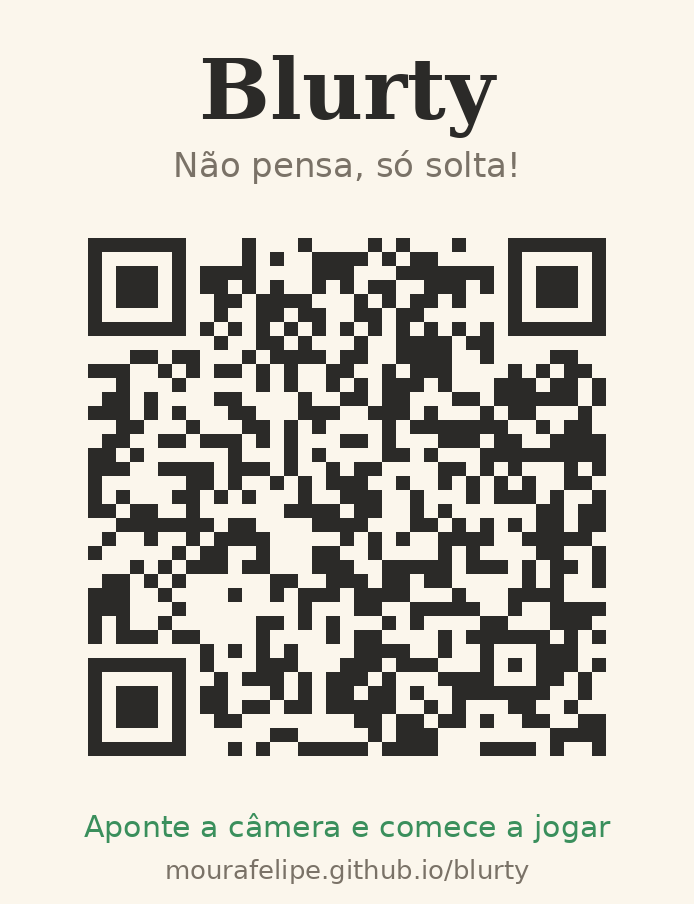
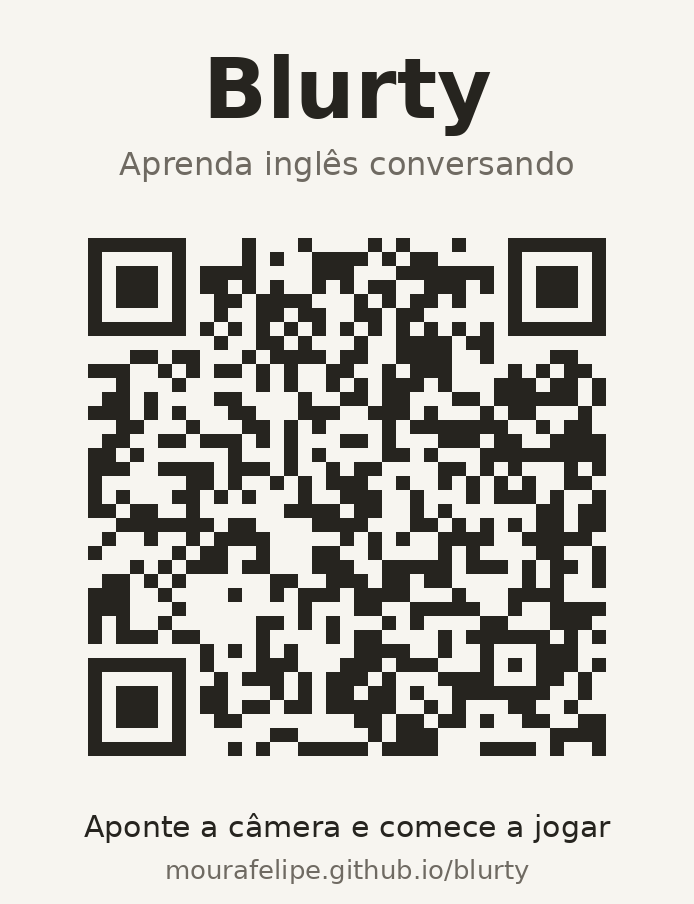
Corrige 3 erros: etiqueta START, nota mínima da fase e QR code
- START no mapa não sobrepõe mais o nome da fase anterior
- Fase só é concluída com 2 de 3 acertos; senão aparece 'Quase lá!' com 'Tentar de novo'
- QR code com o texto novo (mesmo link)

Claude-Session: https://claude.ai/code/session_01447eyMPBRjnX6g9uHsHngW

Changed region(s): [[0.1816, 0.0619, 0.817, 0.2168], [0.121, 0.8982, 0.8775, 0.9292]]

diff --git a/index.html b/index.html
@@ -95,7 +95,7 @@
   .node .lb{font-weight:800;font-size:14px;text-align:center;max-width:180px;line-height:1.15}
   .node .lb small{display:block;font-weight:700;color:var(--muted);font-size:12px}
   .node .st{font-size:13px;color:var(--accent);letter-spacing:1px;height:15px}
-  .node .go{position:absolute;top:-28px;background:var(--card);border:2px solid var(--line);border-radius:10px;padding:2px 10px;font-weight:900;font-size:12px;color:var(--accent);letter-spacing:.08em;animation:bob 1.4s ease-in-out infinite}
+  .node .go{display:block;margin-bottom:4px;background:var(--card);border:2px solid var(--line);border-radius:10px;padding:2px 10px;font-weight:900;font-size:12px;color:var(--accent);letter-spacing:.08em;animation:bob 1.4s ease-in-out infinite}
   .node.cur .c{outline:4px solid var(--soft);outline-offset:4px}
   .soon{margin:12px 16px;display:flex;gap:14px;align-items:center;background:transparent;border:2px dashed var(--line2);border-radius:16px;padding:12px 14px;color:var(--muted)}
   .soon .e{font-size:24px;filter:grayscale(1);opacity:.6}
@@ -778,6 +778,7 @@ const UPCOMING = [
 /* ================== estrutura do curso ================== */
 const MAIN = [BLOCK1];                        // novos blocos entram aqui, em ordem de dificuldade
 const PEP_EVERY = 5;                          // mascote incentiva a cada 5 exercícios
+const PASS = 2/3;                             // acertos mínimos para concluir a fase (2 de 3)
 const PHASES = {};
 MAIN.forEach(b=>b.phases.forEach((p,i)=>PHASES[p.id]={p, b, i}));
 const QUESTIONS = {};
@@ -839,7 +840,7 @@ const overallPct = ()=>Math.round(MAIN_PHASES.filter(p=>done(p.id)).length/MAIN_
 const accuracy = ()=>S.stats.answered?Math.round(S.stats.correct/S.stats.answered*100):0;
 
 const ACH = [
-  {id:"first",  e:"🌱", t:"Primeiro passo",     d:"Conclua sua primeira fase",    ok:()=>Object.keys(S.phases).length>=1},
+  {id:"first",  e:"🌱", t:"Primeiro passo",     d:"Conclua sua primeira fase",    ok:()=>MAIN_PHASES.some(p=>done(p.id))},
   {id:"perfect",e:"🎯", t:"Sem erros",           d:"Conclua uma fase sem errar",   ok:()=>Object.values(S.phases).some(x=>x.stars===3)},
   {id:"b1",     e:"👋", t:"First Conversations", d:"Conclua o Bloco 1",           ok:()=>BLOCK1.phases.every(p=>done(p.id))},
   {id:"ten",    e:"✍", t:"10 exercícios",       d:"Responda 10 exercícios",       ok:()=>S.stats.answered>=10},
@@ -1123,6 +1124,7 @@ function pepTalk(){
 function addXP(n){ S.xp+=n; const t=dayStr(); S.days[t]=(S.days[t]||0)+n; }
 
 function finishPhase(){
+  if (L.ok < Math.ceil(L.total*PASS)) return retryPhase();
   const {p,b}=L, first=!done(p.id);
   const stars=L.mistakes===0?3:L.mistakes===1?2:1, acc=Math.round(L.ok/L.total*100);
   const lines=[["Respostas certas",L.xp]];
@@ -1158,6 +1160,26 @@ function finishPhase(){
   const nb=document.getElementById("nx"); if(nb) nb.onclick=()=>nx.type==="review"?startReview():startPhase(nx.p.id);
   document.getElementById("map").onclick=quit; window.scrollTo(0,0);
 }
+function retryPhase(){
+  const {p}=L, need=Math.ceil(L.total*PASS), acc=Math.round(L.ok/L.total*100);
+  const bonus=touchDay()?5*Math.min(S.streak,7):0, total=L.xp+bonus; addXP(total);
+  const prev=S.phases[p.id]||{stars:0,best:0,plays:0};
+  S.phases[p.id]={stars:prev.stars, best:Math.max(prev.best,acc), plays:prev.plays+1};
+  S.history.push({d:dayStr(), t:p.title, c:L.ok, n:L.total, xp:total}); S.history=S.history.slice(-40);
+  checkAch(); persist();
+  const l=mascotLine(M(),"oops");
+  app.innerHTML=`<div class="screen"><div class="end">${mbox("encourage")}
+      <h2>Quase lá!</h2><div class="sub">${esc(p.title)} · ${esc(p.pt)}</div>
+      <div class="bubble">${esc(l[0])}<small>${esc(l[1])}</small></div>
+      <div class="cards3" style="margin-top:14px"><div class="card"><b>✔ ${L.ok}/${L.total}</b><span>Acertos</span></div><div class="card"><b>🎯 ${need}</b><span>Para passar</span></div><div class="card"><b>⚡ ${total}</b><span>XP</span></div></div>
+      <div class="done-goal"><small>🎯 Objetivo da fase</small>${esc(p.goal)}</div>
+      <p class="empty" style="margin-top:12px">Você precisa acertar ${need} de ${L.total} para concluir a fase. Releia o cartão "Aprenda" e tente de novo: os exercícios que você errou também foram para a Revisão.</p>
+    </div><div class="foot"><button class="btn" id="again" style="margin-bottom:10px">Tentar de novo</button><button class="btn ghost" id="map">Ver mapa</button></div></div>`;
+  sfx.tap();
+  document.getElementById("again").onclick=()=>startPhase(p.id);
+  document.getElementById("map").onclick=quit; window.scrollTo(0,0);
+}
+
 function finishReview(){
   const bonus=touchDay()?5*Math.min(S.streak,7):0, total=L.xp+bonus; addXP(total);
   S.history.push({d:dayStr(), t:"Revisão", c:L.ok, n:L.total, xp:total}); S.history=S.history.slice(-40);

diff --git a/src/app.html b/src/app.html
@@ -95,7 +95,7 @@
   .node .lb{font-weight:800;font-size:14px;text-align:center;max-width:180px;line-height:1.15}
   .node .lb small{display:block;font-weight:700;color:var(--muted);font-size:12px}
   .node .st{font-size:13px;color:var(--accent);letter-spacing:1px;height:15px}
-  .node .go{position:absolute;top:-28px;background:var(--card);border:2px solid var(--line);border-radius:10px;padding:2px 10px;font-weight:900;font-size:12px;color:var(--accent);letter-spacing:.08em;animation:bob 1.4s ease-in-out infinite}
+  .node .go{display:block;margin-bottom:4px;background:var(--card);border:2px solid var(--line);border-radius:10px;padding:2px 10px;font-weight:900;font-size:12px;color:var(--accent);letter-spacing:.08em;animation:bob 1.4s ease-in-out infinite}
   .node.cur .c{outline:4px solid var(--soft);outline-offset:4px}
   .soon{margin:12px 16px;display:flex;gap:14px;align-items:center;background:transparent;border:2px dashed var(--line2);border-radius:16px;padding:12px 14px;color:var(--muted)}
   .soon .e{font-size:24px;filter:grayscale(1);opacity:.6}
@@ -268,6 +268,7 @@
 /* ================== estrutura do curso ================== */
 const MAIN = [BLOCK1];                        // novos blocos entram aqui, em ordem de dificuldade
 const PEP_EVERY = 5;                          // mascote incentiva a cada 5 exercícios
+const PASS = 2/3;                             // acertos mínimos para concluir a fase (2 de 3)
 const PHASES = {};
 MAIN.forEach(b=>b.phases.forEach((p,i)=>PHASES[p.id]={p, b, i}));
 const QUESTIONS = {};
@@ -329,7 +330,7 @@ const overallPct = ()=>Math.round(MAIN_PHASES.filter(p=>done(p.id)).length/MAIN_
 const accuracy = ()=>S.stats.answered?Math.round(S.stats.correct/S.stats.answered*100):0;
 
 const ACH = [
-  {id:"first",  e:"🌱", t:"Primeiro passo",     d:"Conclua sua primeira fase",    ok:()=>Object.keys(S.phases).length>=1},
+  {id:"first",  e:"🌱", t:"Primeiro passo",     d:"Conclua sua primeira fase",    ok:()=>MAIN_PHASES.some(p=>done(p.id))},
   {id:"perfect",e:"🎯", t:"Sem erros",           d:"Conclua uma fase sem errar",   ok:()=>Object.values(S.phases).some(x=>x.stars===3)},
   {id:"b1",     e:"👋", t:"First Conversations", d:"Conclua o Bloco 1",           ok:()=>BLOCK1.phases.every(p=>done(p.id))},
   {id:"ten",    e:"✍", t:"10 exercícios",       d:"Responda 10 exercícios",       ok:()=>S.stats.answered>=10},
@@ -613,6 +614,7 @@ function pepTalk(){
 function addXP(n){ S.xp+=n; const t=dayStr(); S.days[t]=(S.days[t]||0)+n; }
 
 function finishPhase(){
+  if (L.ok < Math.ceil(L.total*PASS)) return retryPhase();
   const {p,b}=L, first=!done(p.id);
   const stars=L.mistakes===0?3:L.mistakes===1?2:1, acc=Math.round(L.ok/L.total*100);
   const lines=[["Respostas certas",L.xp]];
@@ -648,6 +650,26 @@ function finishPhase(){
   const nb=document.getElementById("nx"); if(nb) nb.onclick=()=>nx.type==="review"?startReview():startPhase(nx.p.id);
   document.getElementById("map").onclick=quit; window.scrollTo(0,0);
 }
+function retryPhase(){
+  const {p}=L, need=Math.ceil(L.total*PASS), acc=Math.round(L.ok/L.total*100);
+  const bonus=touchDay()?5*Math.min(S.streak,7):0, total=L.xp+bonus; addXP(total);
+  const prev=S.phases[p.id]||{stars:0,best:0,plays:0};
+  S.phases[p.id]={stars:prev.stars, best:Math.max(prev.best,acc), plays:prev.plays+1};
+  S.history.push({d:dayStr(), t:p.title, c:L.ok, n:L.total, xp:total}); S.history=S.history.slice(-40);
+  checkAch(); persist();
+  const l=mascotLine(M(),"oops");
+  app.innerHTML=`<div class="screen"><div class="end">${mbox("encourage")}
+      <h2>Quase lá!</h2><div class="sub">${esc(p.title)} · ${esc(p.pt)}</div>
+      <div class="bubble">${esc(l[0])}<small>${esc(l[1])}</small></div>
+      <div class="cards3" style="margin-top:14px"><div class="card"><b>✔ ${L.ok}/${L.total}</b><span>Acertos</span></div><div class="card"><b>🎯 ${need}</b><span>Para passar</span></div><div class="card"><b>⚡ ${total}</b><span>XP</span></div></div>
+      <div class="done-goal"><small>🎯 Objetivo da fase</small>${esc(p.goal)}</div>
+      <p class="empty" style="margin-top:12px">Você precisa acertar ${need} de ${L.total} para concluir a fase. Releia o cartão "Aprenda" e tente de novo: os exercícios que você errou também foram para a Revisão.</p>
+    </div><div class="foot"><button class="btn" id="again" style="margin-bottom:10px">Tentar de novo</button><button class="btn ghost" id="map">Ver mapa</button></div></div>`;
+  sfx.tap();
+  document.getElementById("again").onclick=()=>startPhase(p.id);
+  document.getElementById("map").onclick=quit; window.scrollTo(0,0);
+}
+
 function finishReview(){
   const bonus=touchDay()?5*Math.min(S.streak,7):0, total=L.xp+bonus; addXP(total);
   S.history.push({d:dayStr(), t:"Revisão", c:L.ok, n:L.total, xp:total}); S.history=S.history.slice(-40);
